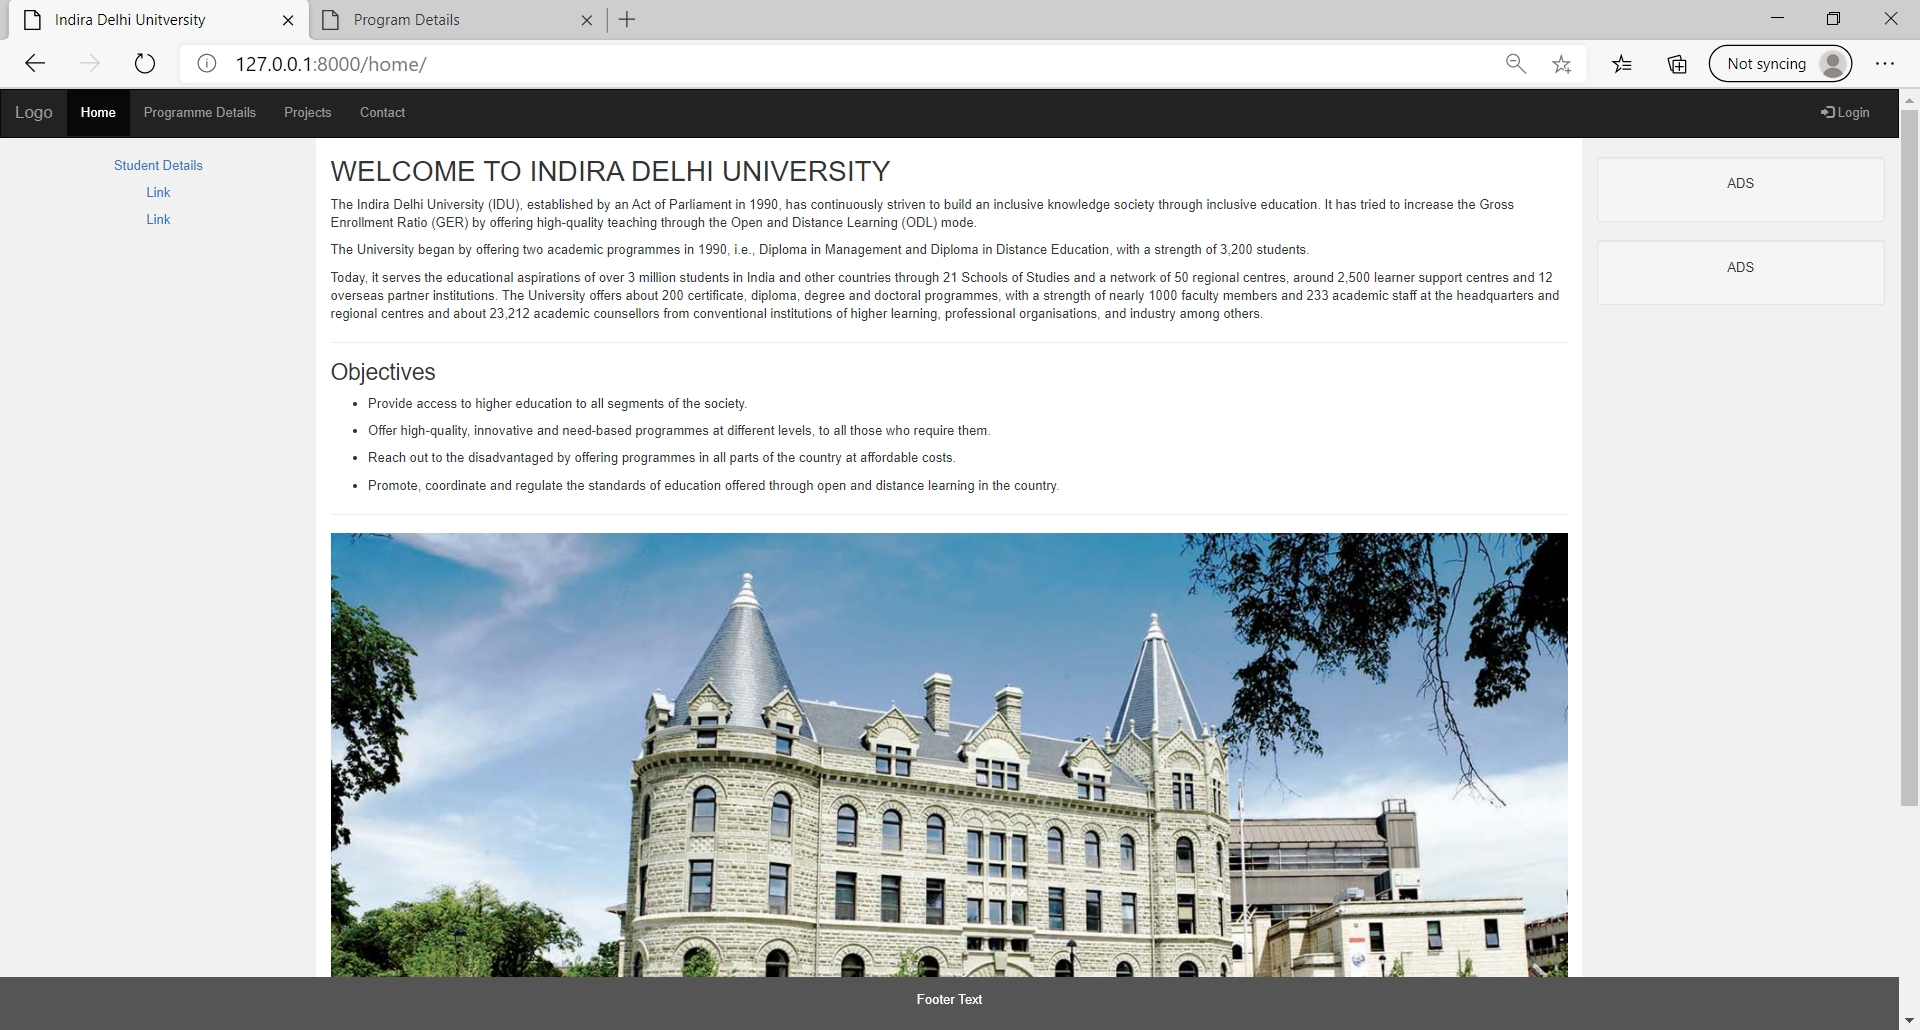
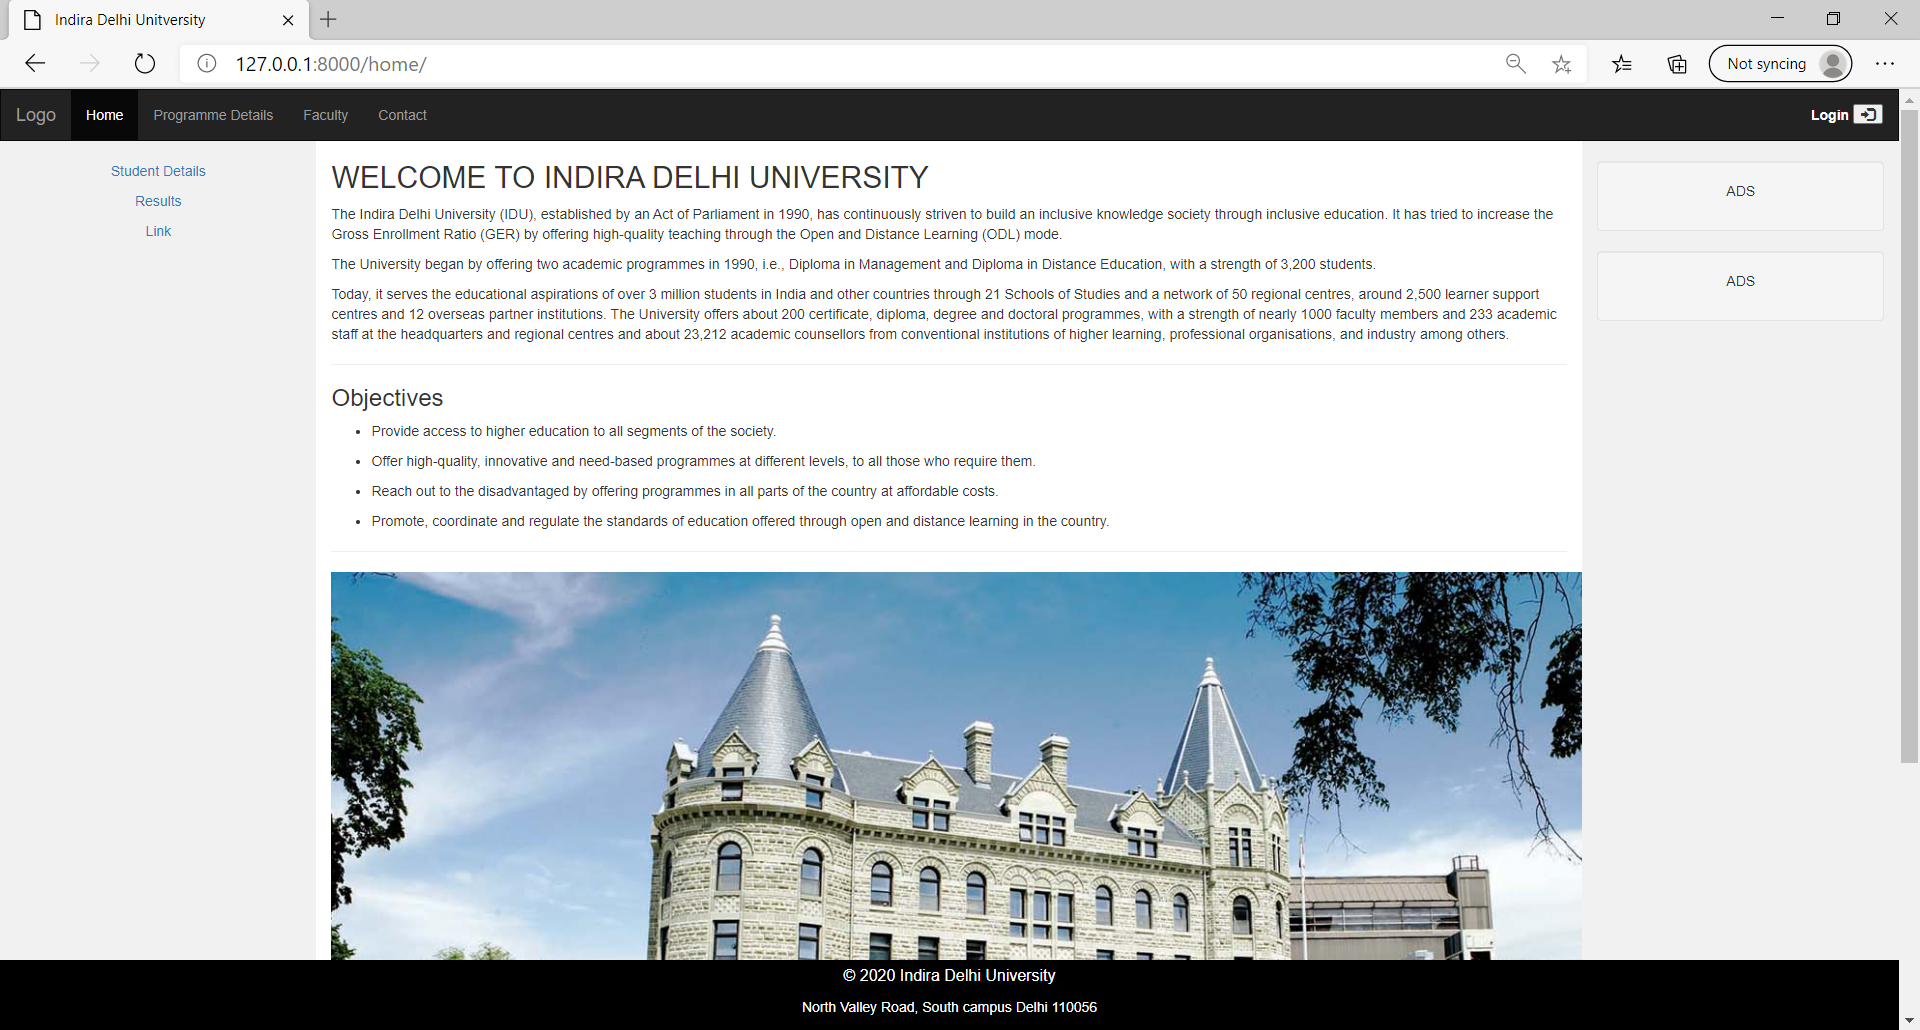
Added Faculties page, Fixed restriction issue of direct URL access of Admin page

diff --git a/idu_app/templates/idu_app/basic.html b/idu_app/templates/idu_app/basic.html
@@ -11,35 +11,14 @@
     <link rel="stylesheet" href="{% static 'idu_app/studetailsadmin.css' %}">
     <link rel="stylesheet" href="{% static 'idu_app/sturegisterdetails.css' %}">
     <link rel="stylesheet" href="{% static 'idu_app/programmedetails.css' %}">
+    <link rel="stylesheet" href="{% static 'idu_app/basic.css' %}">
+    <link rel="stylesheet" href="{% static 'idu_app/faculty.css' %}"> 
     <script src="https://ajax.googleapis.com/ajax/libs/jquery/3.5.1/jquery.min.js"></script>
     <script src="https://maxcdn.bootstrapcdn.com/bootstrap/3.4.1/js/bootstrap.min.js"></script>
 
 
     {% block js %} {% endblock %}
-    <style>
-        /* Remove the navbar's default margin-bottom and rounded borders */
-        .navbar {
-            margin-bottom: 0;
-            border-radius: 0;
-        }
 
-        /* Set black background color, white text and some padding */
-        footer {
-            position: fixed;
-            left: 0;
-            bottom: 0;
-            width: 100%;
-            background-color: #555;
-            color: white;
-            padding: 15px;
-        }
-
-        .fade {
-            opacity: inherit;
-        }
-        
-    </style>
-    
 </head>
 
 <body>
@@ -57,11 +36,11 @@
                 <ul class="nav navbar-nav">
                     <li class="active"><a href="/home">Home</a></li>
                     <li><a href="/home/programmedetails">Programme Details</a></li>
-                    <li><a href="#">Projects</a></li>
+                    <li><a href="/home/faculty">Faculty</a></li>
                     <li><a href="/home/contact">Contact</a></li>
                     {% if user.is_superuser %}
                     <!-- Display Admin button if user is super user -->
-                    <li><a id="admin" href="studetailsadmin/">Admin</a></li>
+                    <li><a id="admin" href="/home/studetailsadmin">Admin</a></li>
                     {% endif %}    
                 </ul>
                 
@@ -123,13 +102,14 @@
             </div>
         </div>
     </div>
+    
     {% block body %} {% endblock %}
     <footer class="container-fluid text-center">
-        <p>Footer Text</p>
+        <p style="font-size: 16px;">&#169; 2020 Indira Delhi University</p>
+        <p>North Valley Road, South campus Delhi 110056</p>
     </footer>
-
 </body>
-{% load static %}
+
 <script src="{% static 'idu_app/basic.js' %}" type="text/javascript"></script>
 <script src="{% static 'idu_app/home.js' %}" type="text/javascript"></script>
 

diff --git a/idu_app/templates/idu_app/faculty.html b/idu_app/templates/idu_app/faculty.html
@@ -1,0 +1,28 @@
+{% extends 'idu_app/basic.html' %}
+{% block title %} Faculties {% endblock %}
+{% block body %}
+
+
+<div class="container faculty">
+    <div class="row mb-2">
+      {% for teacher in teachers %}
+      <div class="col-md-6">
+        <div class="card">
+            <img src="/media/{{teacher.photo}}" class="card-img-top" alt="No Image">
+            <div class="card-body">
+              <h3 class="card-title"><b>{{teacher.name}}</b></h5>
+              <h4><b>{{teacher.designation}}</b></h3>
+              <p class="card-text">{{teacher.about|slice:"0:300"}}...</p>
+            </div>
+          </div>
+      </div>
+      {%if forloop.counter|divisibleby:2 %}
+    </div>
+    <div class="row mb-2">
+    {% endif %}
+    {% endfor %}
+  </div>
+  
+  </div>
+
+{% endblock %}

diff --git a/idu_app/templates/idu_app/sturegisterdetails.html b/idu_app/templates/idu_app/sturegisterdetails.html
@@ -50,8 +50,8 @@
         <textarea type="text" class="form-control bottomrow" id="contact" disabled>{{i.stu_contact}}</textarea>
       </div>
       <div class="col-md-2">
-        <label for="class" class="form-label">Class</label>
-        <textarea type="text" class="form-control bottomrow" id="class" disabled>{{i.stu_class}}</textarea>
+        <label for="class" class="form-label">Semester</label>
+        <textarea type="text" class="form-control bottomrow" id="class" disabled>{{i.stu_semester}}</textarea>
       </div>
       {% endfor %}
       <div class="col-md-2">

diff --git a/idu_app/static/idu_app/basic.css b/idu_app/static/idu_app/basic.css
@@ -1,0 +1,20 @@
+/* Remove the navbar's default margin-bottom and rounded borders */
+.navbar {
+    margin-bottom: 0;
+    border-radius: 0;
+}
+
+/* Set black background color, white text and some padding */
+footer {
+    position: fixed;
+    left: 0;
+    bottom: 0;
+    width: 100%;
+    background-color:black;
+    color: white;
+    padding: 5px;
+}
+
+.fade {
+    opacity: inherit;
+}

diff --git a/idu_app/static/idu_app/faculty.css b/idu_app/static/idu_app/faculty.css
@@ -1,0 +1,15 @@
+.faculty {
+    margin-top: 10px;
+    
+}
+
+.card-img-top {
+    max-height: 100px;
+    max-width: 20rem;
+}
+
+.card{
+    margin-bottom: 2px;
+    width: 35rem;
+    border: 2px solid black;
+}

diff --git a/idu_app/views.py b/idu_app/views.py
@@ -1,6 +1,8 @@
 from django.shortcuts import render, redirect, HttpResponse
 from django.contrib.auth import login, logout, authenticate
-from idu_app.models import student, mark, contact
+from django.contrib.admin.views.decorators import staff_member_required
+from django.contrib.auth.decorators import login_required
+from idu_app.models import student, mark, contact, teacher
 from django.contrib import messages
 import pandas as pd
 
@@ -11,6 +13,12 @@ def home(request):
     """function to redirect to homepage"""
 
     return render(request, 'idu_app/home.html')
+
+def faculty(request):
+    """funtion to redirect to faculty details page"""
+    teachers = teacher.objects.all()
+    params = {'teachers': teachers}
+    return render(request, 'idu_app/faculty.html', params)
 
 
 def handlelogin(request):
@@ -30,7 +38,7 @@ def handlelogin(request):
     else:
         return HttpResponse('404 - Not found')
 
-
+@login_required
 def handlelogout(request):
     """function to handle logout authentication"""
     logout(request)
@@ -59,7 +67,7 @@ def programmedetails(request):
 
     return render(request, 'idu_app/programmedetails.html')
 
-
+@staff_member_required # restricting the URL to admin only users
 def studetailsadmin(request):
     """function to redirect to student details admin page"""
 

diff --git a/idu_app/models.py b/idu_app/models.py
@@ -1,6 +1,17 @@
 from django.db import models
 
 # Create your models here.
+class teacher(models.Model):
+    """Faculty details form class"""
+
+    photo = models.ImageField(upload_to="home/images", default="")
+    name = models.CharField(max_length=255, default="")
+    designation = models.CharField(max_length=255, default="")
+    about = models.CharField(max_length=1000, default="")
+
+    def __str__(self):
+        return self.name
+
 class student(models.Model):
     """Student details form class"""
   

diff --git a/idu/urls.py b/idu/urls.py
@@ -14,9 +14,12 @@ Including another URLconf
     2. Add a URL to urlpatterns:  path('blog/', include('blog.urls'))
 """
 from django.contrib import admin
+from django.conf import settings
+from django.conf.urls.static import static
 from django.urls import path, include
 
 urlpatterns = [
     path('admin/', admin.site.urls),
     path('home/', include('idu_app.urls', namespace='idu')),
-]
+
+] + static(settings.MEDIA_URL, document_root=settings.MEDIA_ROOT)

diff --git a/idu_app/urls.py b/idu_app/urls.py
@@ -5,6 +5,7 @@ from idu_app import views
 app_name = 'idu'
 urlpatterns = [
     path('', views.home, name='home'),
+    path('faculty/', views.faculty, name='faculty'),
     path('studetailsadmin/', views.studetailsadmin, name='studetailsadmin'),
     path('updatestudetailsadmin/', views.updatestudetailsadmin, name='updatestudetailsadmin'),
     path('sturegisterdetails/', views.sturegisterdetails, name='sturegisterdetails'),

diff --git a/idu_app/admin.py b/idu_app/admin.py
@@ -5,3 +5,4 @@ from idu_app import models
 admin.site.register(models.student)
 admin.site.register(models.mark)
 admin.site.register(models.contact)
+admin.site.register(models.teacher)

diff --git a/demo.md b/demo.md
@@ -1,10 +1,20 @@
 # Full Demo
 ![title](Images/fulldemo.gif)
+# Admin Page
+![title](Images/Student_details_upload_Admin.png)
+# Student Data Upload
+![title](Images/registeration.gif)
 # Homepage
 ![title](Images/home.png)
 # Programme Details
 ![title](Images/program.png)
-# Student Data Upload
-![title](Images/registeration.gif)
+# Faculty page
+![title](Images/faculty.png)
+# Contact us
+![title](Images/contactus.png)
+# Student Registeration Details
+![title](Images/student_register_details.png)
 # Examination Results
 ![title](Images/results.png)
+
+

diff --git a/readme.md b/readme.md
@@ -49,6 +49,7 @@ Password : your_pass
 ### *Sample file format to be used for uploading bulk student marksheets data*
 [Click here](https://github.com/IlmanAhmad/University_Website_Project/blob/main/marks.xlsx "Student_Data")
 
-- You need to log in as Admin to see the Admin button.
+- You need to log in as Admin to access Admin page.
 - Select the excel sheet you want to upload.
 - Click on Submit.
+- Click on Update in case you need to modify existing data.
